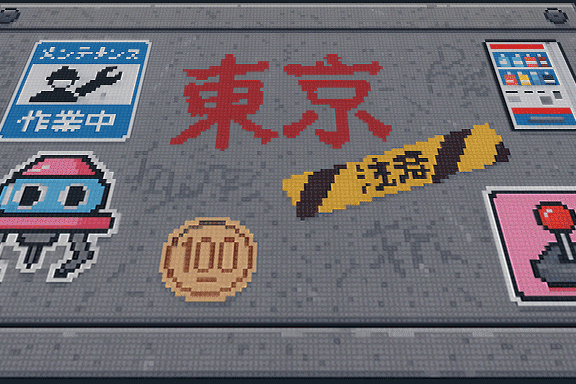
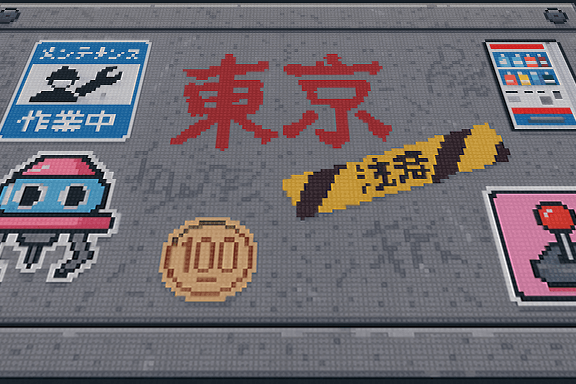
Optimize images and update game.js
- Reduced grandstand.png file size for faster loading
- Optimized arcade panel and button images
- Updated game.js with latest changes

diff --git a/public/game.js b/public/game.js
@@ -2559,6 +2559,11 @@ function resetAllUIElements() {
     lobby.style.opacity = '1';
   }
 
+  // ✅ Reset scroll position when returning to lobby
+  window.scrollTo(0, 0);
+  document.documentElement.scrollTop = 0;
+  document.body.scrollTop = 0;
+
   var joinBtn = document.getElementById('joinRoomBtn');
   if (joinBtn) {
     joinBtn.style.display = 'inline-block';
@@ -2702,6 +2707,11 @@ function initGame() {
     } else {
       console.error('[INIT] ERROR: Lobby element not found!');
     }
+    
+    // ✅ Reset scroll position on initial load
+    window.scrollTo(0, 0);
+    document.documentElement.scrollTop = 0;
+    document.body.scrollTop = 0;
     
     // Don't lock scroll in lobby - allow scrolling to see all content
     lockScroll(false);
@@ -2893,6 +2903,11 @@ socket.on('gameStart', function (data) {
   if (gameState.isResetting) return;
 
   console.log('[GAME] Game started event received', data);
+
+  // ✅ CRITICAL: Reset scroll position FIRST to prevent lobby scroll affecting game layout
+  window.scrollTo(0, 0);
+  document.documentElement.scrollTop = 0;
+  document.body.scrollTop = 0;
 
   // Hide lobby
   const lobby = document.getElementById('lobby');
@@ -3152,6 +3167,11 @@ socket.on('resetRoom', function(data) {
     lobby.style.opacity = '1';
     console.log('[RESET] Lobby shown');
   }
+
+  // ✅ Reset scroll position
+  window.scrollTo(0, 0);
+  document.documentElement.scrollTop = 0;
+  document.body.scrollTop = 0;
 
   // ✅ HIDE RESULTS SCREEN
   var results = document.getElementById('results');
